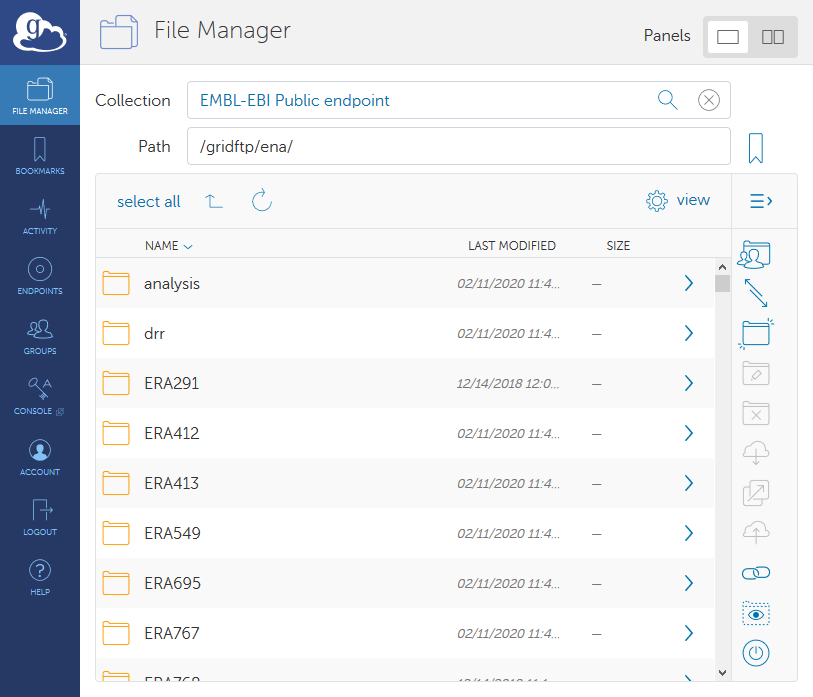
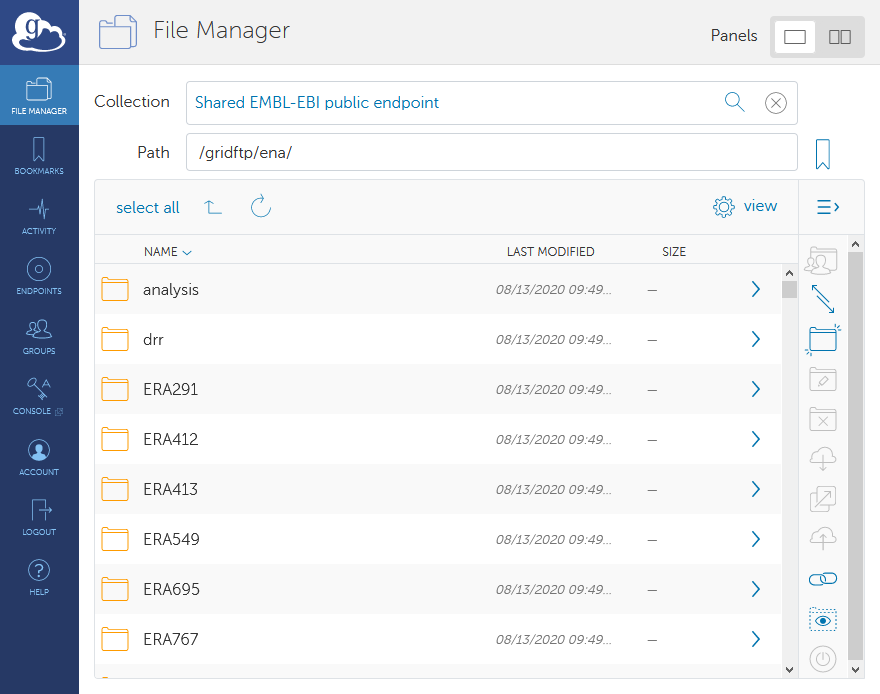
Corrected Globus information

diff --git a/retrieval/file-download.rst b/retrieval/file-download.rst
@@ -5,7 +5,7 @@ How to Download Data Files
 Providing users with the ability to download submitted data for further
 analysis purposes is a key part of ENA's mission.
 Files are therefore made available through a public FTP server.
-Here you can learn how this server is structure, and how to download read and
+Here you can learn how this server is structured, and how to download read and
 analysis files.
 
 
@@ -93,8 +93,8 @@ Using *Globus*
 
 Globus provides a more user-friendly, feature-rich directory interface for
 interacting with the FTP server.
-Files can be downloaded through `Globus`_ ebi#public endpoint from the
-'/gridftp/ena' subfolder:
+Files can be downloaded through `Globus`_ 'Shared EMBL-EBI public endpoint'
+endpoint from the '/gridftp/ena' subfolder:
 
 .. image:: images/file-download-globus.png
 
